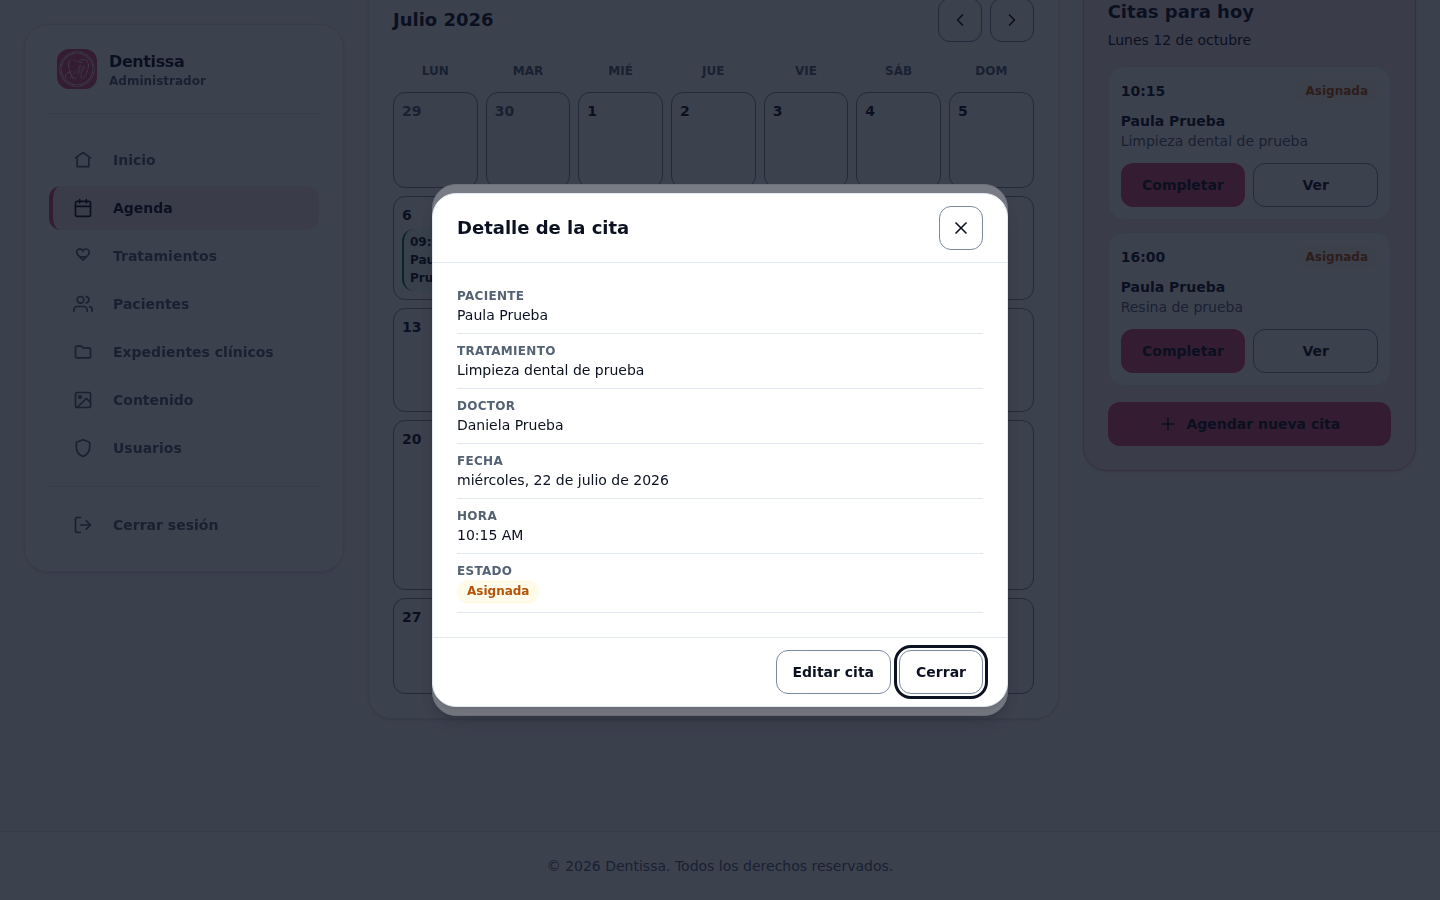
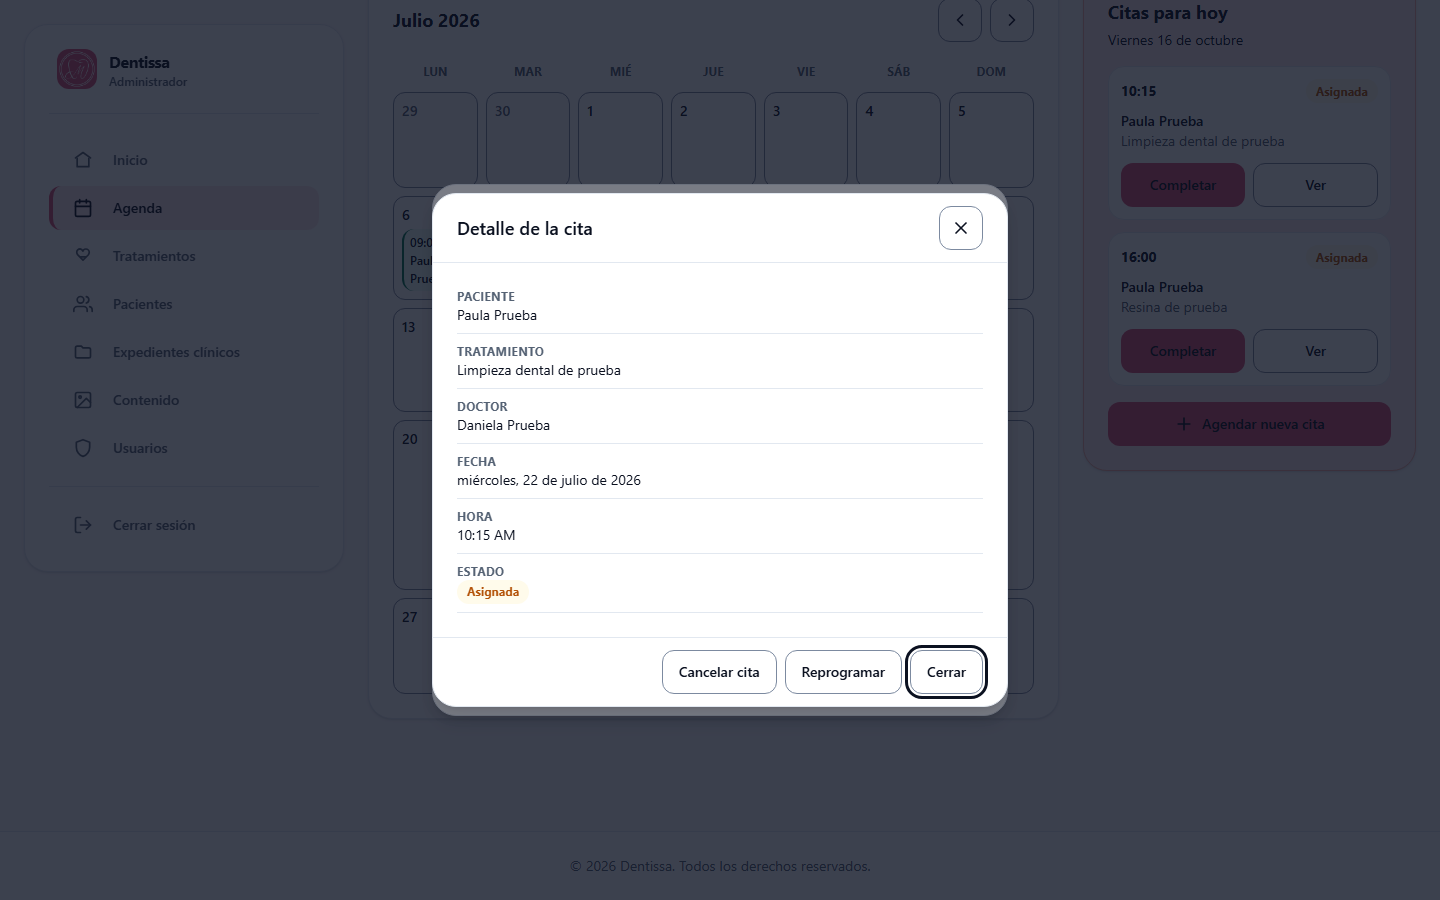
docs(017): T037 capture the reschedule and cancel dialogs for the inventory
Cubre: CA7, CA9
Tasks: docs/specs/017-reprogramar-cancelar-citas/tasks.md

diff --git a/docs/design/system.md b/docs/design/system.md
@@ -236,9 +236,9 @@ Sin cambios respecto al sistema 1.0.0. Ninguna animación declara versión con
 **Todas** las vistas de la app, con capturas de la app real hechas con datos de prueba. Nada se
 dibuja a mano. Las capturas son las del sistema 2.0.0: las generó el paso `ui-audit` de CI el
 2026-10-12 (corrida del commit `871ee45`) sobre una base recién migrada que solo contiene los datos
-de `UiAuditSeeder`. **75 de 76 capturadas** (147 imágenes, a 390 y 1440 px); la spec 017 renombra "Editar cita" a
-"Reprogramar cita" y añade "Confirmar cancelación": sus capturas y la del detalle de cita
-asignada se regeneran en su tarea T037. CI comprueba además
+de `UiAuditSeeder`. **76 de 76 capturadas** (149 imágenes, a 390 y 1440 px). La spec 017 renombró "Editar cita" a
+"Reprogramar cita", añadió "Confirmar cancelación" y regeneró esas capturas y la del detalle de
+cita asignada el 2026-10-16, con `ui-audit` en local sobre los mismos datos. CI comprueba además
 cada pantalla a 768 px y la navegación desplegada a 1024 px; esas capturas quedan en el artefacto
 `ui-audit` de cada corrida.
 
@@ -267,9 +267,9 @@ cada pantalla a 768 px y la navegación desplegada a 1024 px; esas capturas qued
 | Agenda, mes con citas | `/agenda` (julio de 2026) | Administrador | [390](capturas/agenda-con-citas-390.png) · [1440](capturas/agenda-con-citas-1440.png) | capturada |
 | Agenda, citas del día | `components/calendar/day-details-modal.blade.php` | Administrador | [1440](capturas/agenda-dia-1440.png) | capturada a 1440 px (el diálogo existe desde 768 px y CI lo revisa también a ese ancho; en el móvil es una lista bajo el calendario) |
 | Agenda, detalle de cita | `components/calendar/view-appointment-modal.blade.php` | Administrador | [390](capturas/agenda-cita-detalle-390.png) · [1440](capturas/agenda-cita-detalle-1440.png) | capturada |
-| Agenda, detalle de cita asignada (con "Reprogramar" y "Cancelar cita") | `components/calendar/view-appointment-modal.blade.php` | Administrador | [390](capturas/agenda-cita-detalle-pendiente-390.png) · [1440](capturas/agenda-cita-detalle-pendiente-1440.png) | por regenerar (017, T037) |
-| Agenda, reprogramar cita | `components/calendar/edit-appointment-modal.blade.php` | Administrador | [390](capturas/agenda-cita-reprogramar-390.png) · [1440](capturas/agenda-cita-reprogramar-1440.png) | por capturar (017, T037) |
-| Agenda, confirmar cancelación | `components/calendar/cancel-appointment-confirm.blade.php` | Administrador | [390](capturas/agenda-cita-cancelar-390.png) · [1440](capturas/agenda-cita-cancelar-1440.png) | por capturar (017, T037) |
+| Agenda, detalle de cita asignada (con "Reprogramar" y "Cancelar cita") | `components/calendar/view-appointment-modal.blade.php` | Administrador | [390](capturas/agenda-cita-detalle-pendiente-390.png) · [1440](capturas/agenda-cita-detalle-pendiente-1440.png) | capturada |
+| Agenda, reprogramar cita | `components/calendar/edit-appointment-modal.blade.php` | Administrador | [390](capturas/agenda-cita-reprogramar-390.png) · [1440](capturas/agenda-cita-reprogramar-1440.png) | capturada |
+| Agenda, confirmar cancelación | `components/calendar/cancel-appointment-confirm.blade.php` | Administrador | [390](capturas/agenda-cita-cancelar-390.png) · [1440](capturas/agenda-cita-cancelar-1440.png) | capturada |
 | Agenda, agendar cita | `components/calendar/create-appointment-modal.blade.php` | Administrador | [390](capturas/agenda-cita-crear-390.png) · [1440](capturas/agenda-cita-crear-1440.png) | capturada |
 | Agenda, completar cita (paso 1) | `components/calendar/complete-appointment-modal.blade.php` | Administrador | [390](capturas/agenda-cita-completar-390.png) · [1440](capturas/agenda-cita-completar-1440.png) | capturada |
 | Agenda, completar cita con error de validación | `components/calendar/complete-appointment-modal.blade.php` | Administrador | [390](capturas/agenda-cita-completar-validacion-390.png) · [1440](capturas/agenda-cita-completar-validacion-1440.png) | capturada |

diff --git a/docs/specs/017-reprogramar-cancelar-citas/tasks.md b/docs/specs/017-reprogramar-cancelar-citas/tasks.md
@@ -157,8 +157,10 @@ Las tareas no añaden nada al análisis de [plan.md](plan.md); se revisa lo que 
   - nota: hecha 2026-10-16: `npm run test:ui -- --baseline --only <convención> --width 1440` reescribió también `agenda`, `agenda-con-citas` y `agenda-dia`, que están en `admitted` (spec 016) y se reescriben siempre; sus diferencias eran solo el ancho de un encabezado que depende del texto del día, ajenas a 017. Se conservaron sus valores anteriores y del archivo nuevo solo se tomaron las entradas de 017: `agenda-cita-detalle-pendiente` (cambia: cuatro acciones), y nuevas `agenda-cita-reprogramar`, `agenda-cita-cancelar`, `agenda-cita-detalle-cancelada` y `expediente-administrador-cita-detalle-pendiente`
   - nota: A38 aplicado: se retiró la entrada huérfana `agenda-cita-editar`; el diff solo toca entradas de la agenda y del detalle de 017 (`admitted` sin cambios)
   - nota: ui-audit local 2026-10-16 (convención A39, 41 visitas): 0 fallos, composición incluida
-- [ ] T037 Generar las capturas del inventario que enlaza T001 con `npm run test:ui -- --only agenda-cita-reprogramar,agenda-cita-cancelar,agenda-cita-detalle-pendiente --screenshots docs/design/capturas` y retirar `agenda-cita-editar-*` — `docs/design/capturas/ (generado por npm run test:ui -- --screenshots)` — hecho cuando: existen `agenda-cita-reprogramar-*`, `agenda-cita-cancelar-*` y la `agenda-cita-detalle-pendiente-*` renovada, ya no existe `agenda-cita-editar-*`, y todo enlace del inventario de `system.md` y `system.html` apunta a un archivo que existe — cubre: CA7, CA9 — depende: T001, T035
+- [x] T037 Generar las capturas del inventario que enlaza T001 con `npm run test:ui -- --only agenda-cita-reprogramar,agenda-cita-cancelar,agenda-cita-detalle-pendiente --screenshots docs/design/capturas` y retirar `agenda-cita-editar-*` — `docs/design/capturas/ (generado por npm run test:ui -- --screenshots)` — hecho cuando: existen `agenda-cita-reprogramar-*`, `agenda-cita-cancelar-*` y la `agenda-cita-detalle-pendiente-*` renovada, ya no existe `agenda-cita-editar-*`, y todo enlace del inventario de `system.md` y `system.html` apunta a un archivo que existe — cubre: CA7, CA9 — depende: T001, T035
   - nota: A41 (aceptado) — en `docs/design/capturas/` solo quedan, de esas entradas, las capturas a 390 y 1440 px que enlaza el inventario (las de 768 px se borran)
+  - nota: hecha 2026-10-16: capturas generadas con `npm run test:ui -- --only agenda-cita-reprogramar,agenda-cita-cancelar,agenda-cita-detalle-pendiente --screenshots <scratchpad>` en local, y copiadas a `docs/design/capturas/` solo las de 390 y 1440 px (A41); retiradas `agenda-cita-editar-390.png` y `-1440.png`. Todos los enlaces de `system.md` y `system.html` apuntan a archivos que existen (149 imágenes)
+  - nota: archivo extra justificado: `docs/design/system.md` pasa las tres filas de "por capturar/regenerar (017, T037)" que dejó T001 a "capturada" y el recuento a 76 de 76; tests de diseño 103/103. Las capturas son de la base local con los datos de `UiAuditSeeder`, no de una base recién migrada como las de CI del 2026-10-12
 - [ ] T034 Cerrar la implementación: Pint (`--dirty`) y suite Pest completa sin ninguna marca `skip('017:` (incluidos `CompleteAppointmentTest`, `WhatsAppFlowLogsTest`, `AppointmentsAccessControlTest` y `UnexpectedErrorTest`). `npm run build` y `ui-audit` dos veces seguidas en verde. `grep` de `now(`, `Illuminate` y `Carbon` en `app/Modules/Appointments/Domain/` sin resultados nuevos; `grep -rn "env(" app/` sin resultados nuevos. `python .ai/bin/aidd.py validate` sin errores. — ninguno (solo verificación) — hecho cuando: todo lo anterior en verde — depende: T002, T003, T004, T022, T035, T037, T039
 
 ## Integración y documentación
